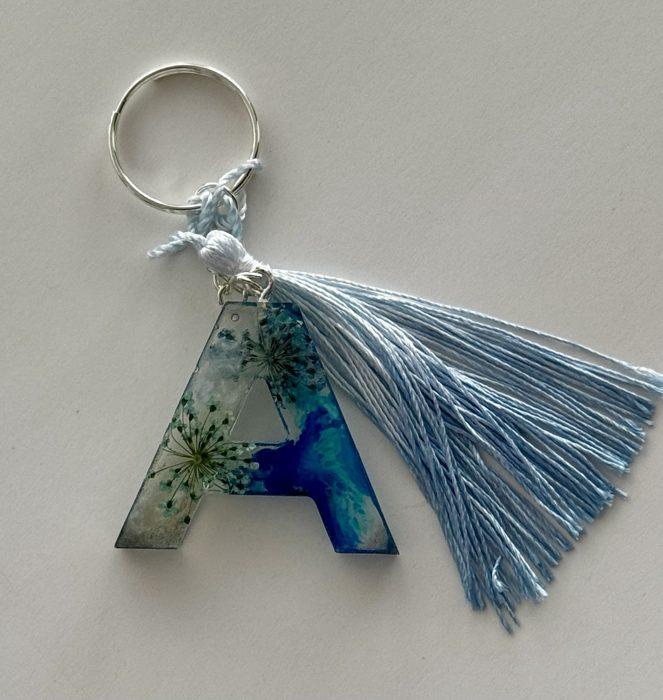
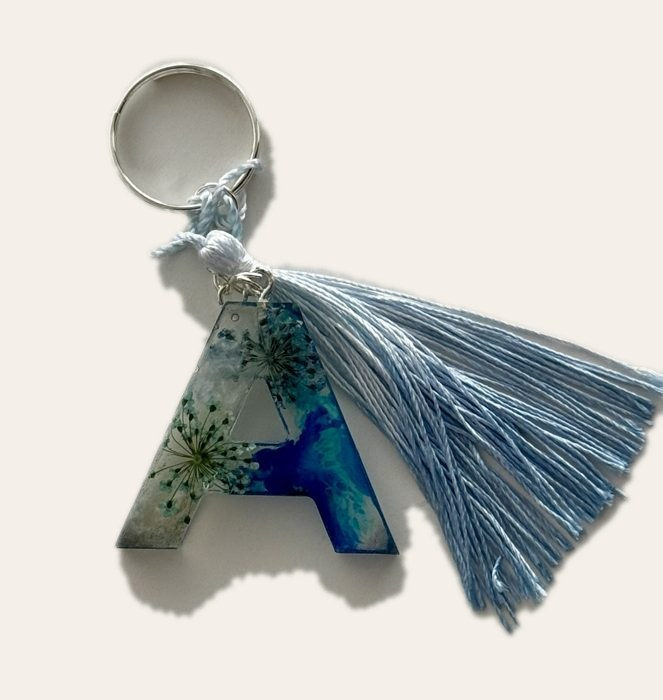
Same warm background on shop photos that have plain backgrounds; shared tile colour for all
Claude-Session: https://claude.ai/code/session_01DjQemfhErfNEU4ZzJdMN5C

diff --git a/style.css b/style.css
@@ -773,3 +773,5 @@ a.card { text-decoration: none; color: inherit; display: block; }
 .dd-menu a { display: block; padding: 9px 18px; border-bottom: 0 !important; white-space: nowrap; }
 .dd-menu a:hover { background: var(--aqua); }
 @media (max-width: 899px) { body.menu-open .dd-menu { display: block; position: static; border: 0; box-shadow: none; padding: 0 0 0 14px; } body.menu-open .dd-btn { display: none; } body.menu-open .dd-menu a { font-size: 1.2rem; } }
+.gallery figure, .product-photo, .refs figure { background: #F4F0E9; }
+.gallery img, .gallery video { background: #F4F0E9; }
